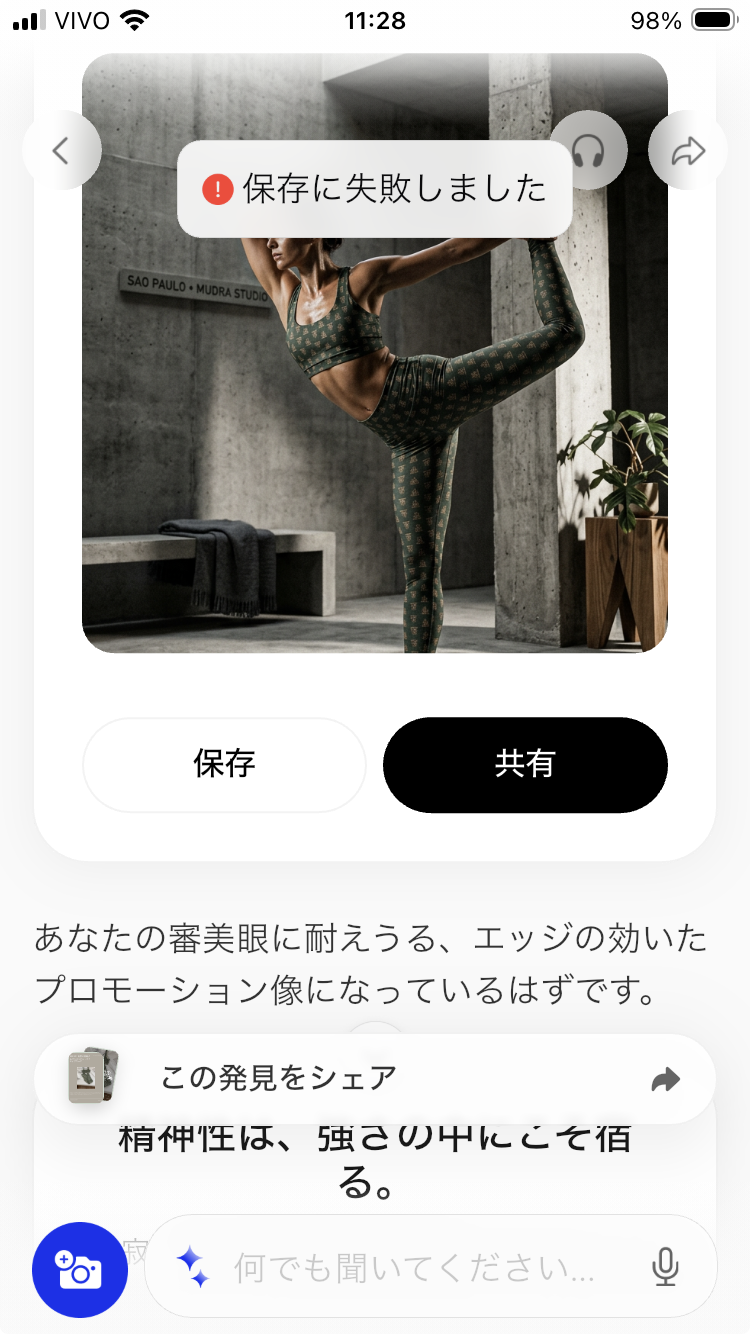
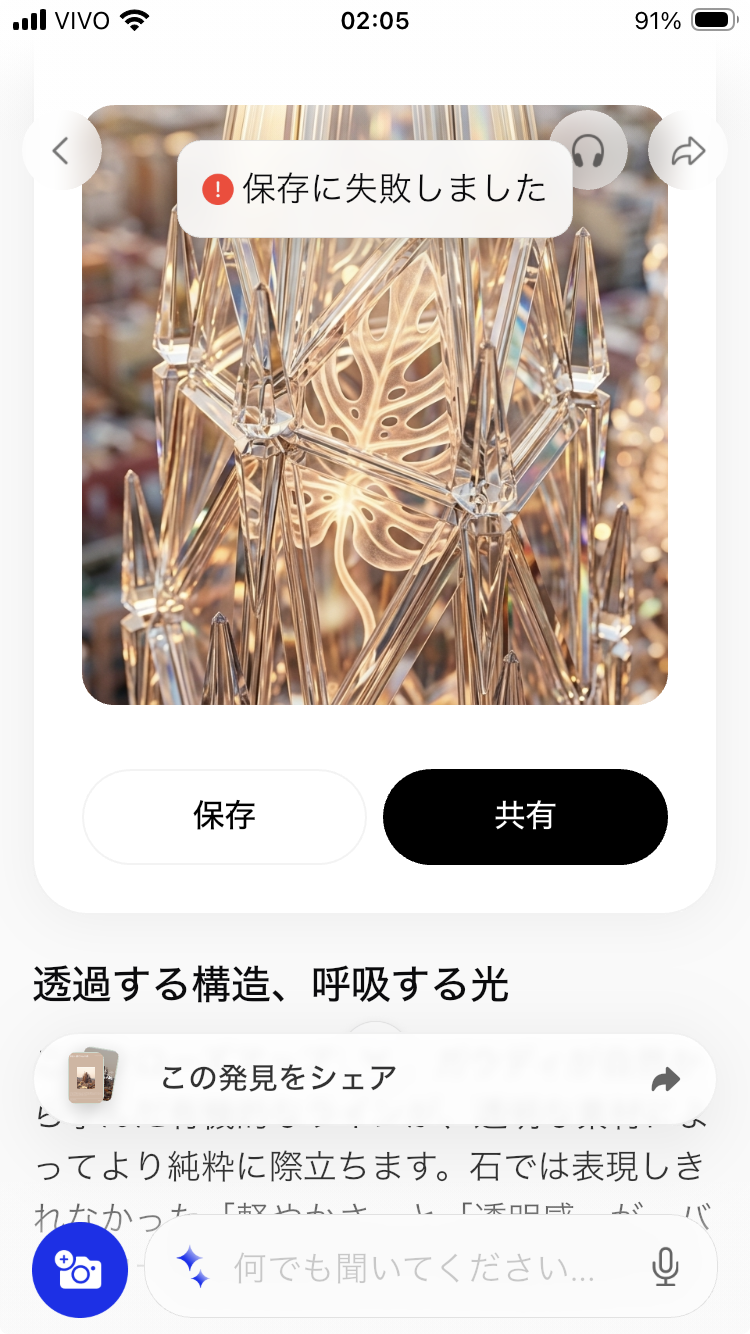
Re-add H4 save-failure screenshot with a cleaner retake (no incidental prompt/output text visible), placed after the C3 Costela pair

diff --git a/chance-ai-sample.html b/chance-ai-sample.html
@@ -448,6 +448,13 @@
     </figure>
   </div>
 
+  <div class="visual-evidence-grid">
+    <figure>
+      <img src="/images/samples/chance-h4-save-failure.png" alt="Chance AI showing a generic save-failure message without identifying the Photos-permission cause">
+      <figcaption><strong>H4-E1.</strong> The save flow reports &ldquo;Failed to save&rdquo; but does not identify the likely Photos-permission cause or provide an actionable recovery path.</figcaption>
+    </figure>
+  </div>
+
   <p style="font-size:0.85rem;color:var(--muted);">Additional visual evidence &mdash; including the H3 sharing-overlay conflict, C1&ndash;C6 examples, and the fuller range of image-generation outputs referenced in the diagnosis &mdash; is reserved for the complete engagement.</p>
 
   <h2 id="next-phase">What comes next</h2>
